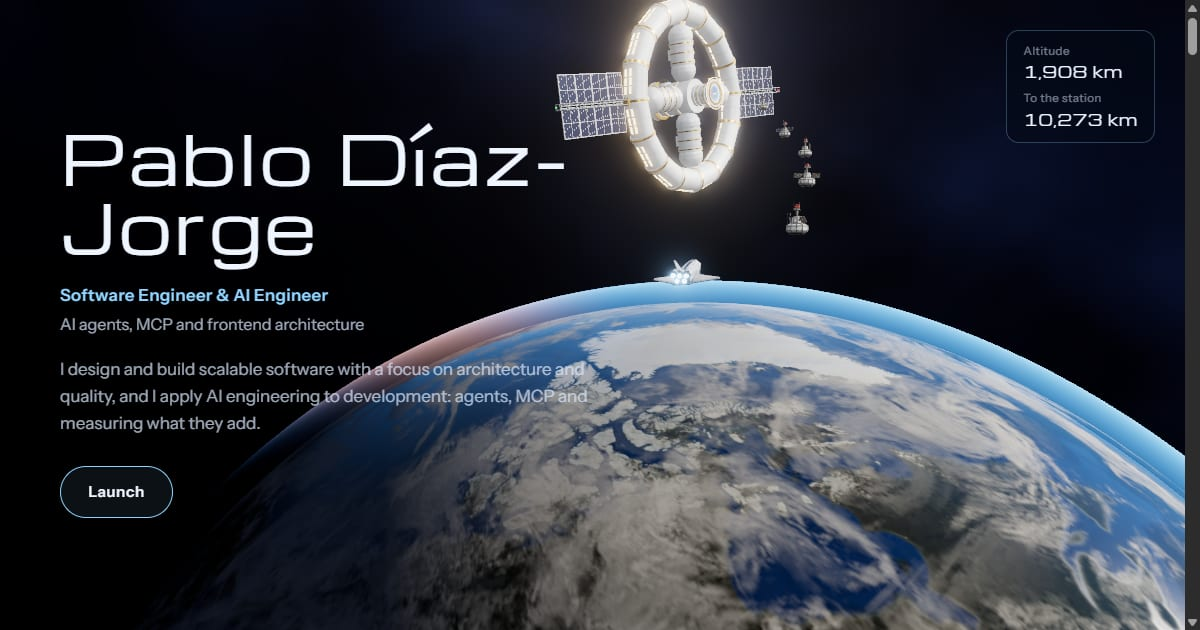
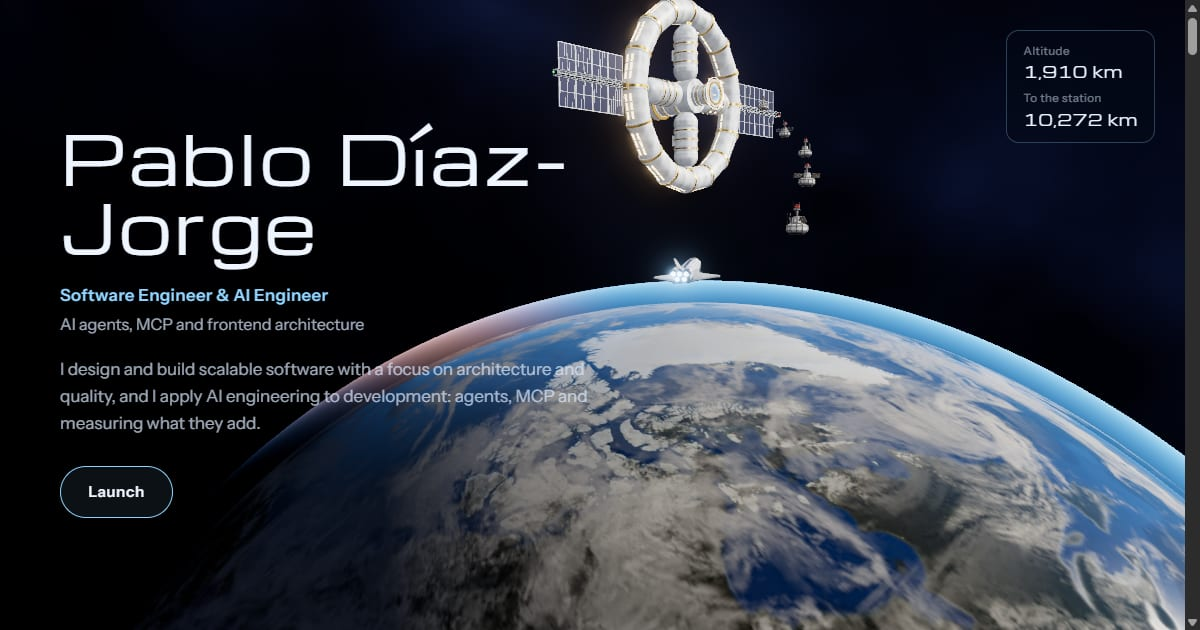
feat(helios): the station's hull wears painted metal panels from Poly Haven
- the hull samples the colour, normal and roughness maps of Blue Metal Plate (CC0) triplanar in its own frame, in plates of 2 m, with the colour dropped to its luminance and tinted white so only the seams and the wear of the paint remain; the plates drawn in the shader go

- chosen among five CC0 sets compared on the same stops; the maps are documented in the textures README

- hub and link images regenerated

diff --git a/src/app/landings/helios/helios.scene.ts b/src/app/landings/helios/helios.scene.ts
@@ -1,23 +1,21 @@
 import * as THREE from 'three/webgpu';
 import {
   abs,
-  atan,
   color,
   dot,
   float,
-  fwidth,
   hash,
   max,
-  min,
   mix,
+  mrt,
   mx_fractal_noise_float,
   normalize,
+  normalLocal,
   normalView,
-  oneMinus,
+  output,
   pass,
   pmremTexture,
   positionLocal,
-  positionView,
   positionViewDirection,
   positionWorld,
   positionWorldDirection,
@@ -25,12 +23,21 @@ import {
   step,
   texture,
   time,
+  transformNormalToView,
   uniform,
   uv,
   vec2,
   vec3,
 } from 'three/tsl';
 import { bloom } from 'three/addons/tsl/display/BloomNode.js';
+
+
+/** Marks a material as one the bloom may pick up: lights, glows, the planet and its air. Everything
+ *  else (the hull above all) stays crisp however brightly the sun hits it. */
+function blooms<T extends THREE.NodeMaterial>(material: T): T {
+  material.mrtNode = mrt({ bloomIntensity: float(1) });
+  return material;
+}
 import { RoomEnvironment } from 'three/addons/environments/RoomEnvironment.js';
 import { dequantizeMeshes } from '../../core/assets/dequantize';
 import { loadGltf } from '../../core/assets/gltf';
@@ -167,7 +174,7 @@ export class HeliosScene implements WorldScene {
     lib.set('solar', solar);
 
     const glow = (name: string, hex: string, strength: number) => {
-      const m = new THREE.MeshBasicNodeMaterial();
+      const m = blooms(new THREE.MeshBasicNodeMaterial());
       m.colorNode = color(hex).mul(strength);
       lib.set(name, m);
     };
@@ -208,43 +215,45 @@ export class HeliosScene implements WorldScene {
     lib.forEach((m) => this.bag.add(m));
   }
 
-  /** The station's hull: painted plates drawn from the model's own frame (the hub axis is local z, the
-   *  ring lies in the x-y plane). The relief between the gold bands is modelled, so the shader only adds
-   *  a faint seam down the middle of each drum of the ring and a 2.5 m grid of plates elsewhere, a tone
-   *  of its own per plate, grime along the seams and a worn roughness; the seams fade with distance so
-   *  the hull never reads as ruled paper from afar. */
+  /** The station's hull: the painted steel panels of blue_metal_plate (Poly Haven, CC0) with their seams,
+   *  dropped to a white paint, sampled triplanar in the model's own frame so they turn with the wheel,
+   *  in plates of 2 m; the map's own brightness is normalised by its measured mean, its normals carry
+   *  the seams and its roughness map spans a satin range. */
   private hullMaterial(): THREE.MeshStandardNodeMaterial {
-    const m = new THREE.MeshStandardNodeMaterial({ metalness: 0.12 });
-    const p = positionLocal;
-    const r = p.xy.length();
-    const onRing = smoothstep(9.2, 9.8, r);
-    // the ring: the drums are joined every 22.5 degrees, so one seam halfway along each
-    const deg = atan(p.y, p.x).mul(180 / Math.PI).add(360);
-    const ringSeam = abs(deg.mod(22.5).sub(11.25)).mul(Math.PI / 180).mul(r);
-    const ringCell = deg.div(22.5).floor().add(step(0, p.z).mul(31));
-    // everything else: a grid of plates in the model's frame
-    const g = p.div(2.5);
-    const gf = g.fract().sub(0.5).abs().mul(-1).add(0.5).mul(2.5);
-    const boxSeam = min(min(gf.x, gf.y), gf.z);
-    const boxCell = g.floor();
-    const seamDist = mix(boxSeam, ringSeam, onRing);
-    const cellId = mix(boxCell.x.add(boxCell.y.mul(37)).add(boxCell.z.mul(113)), ringCell, onRing);
-    const aa = fwidth(seamDist).max(0.01);
-    const near = oneMinus(smoothstep(30, 90, positionView.z.negate()));
-    const seam = oneMinus(smoothstep(float(0.02).sub(aa), float(0.02).add(aa), seamDist)).mul(near);
-    const grime = smoothstep(0.0, 0.3, seamDist).mul(0.1).add(0.9);
-    const tone = mix(0.94, 1.03, hash(cellId.add(0.5)));
-    const wear = mx_fractal_noise_float(p.mul(0.9)).mul(0.5).add(0.5);
-    const paint = color('#cbd0d6').mul(tone).mul(grime).mul(wear.mul(0.08).add(0.96));
-    m.colorNode = mix(paint, paint.mul(0.72), seam);
-    m.roughnessNode = wear.mul(0.22).add(0.4).add(seam.mul(0.2));
+    const loader = new THREE.TextureLoader();
+    const load = (kind: string, srgb: boolean) => {
+      const t = this.bag.add(loader.load(`textures/helios/hull-${kind}.webp`));
+      t.wrapS = t.wrapT = THREE.RepeatWrapping;
+      t.anisotropy = 8;
+      if (srgb) t.colorSpace = THREE.SRGBColorSpace;
+      return t;
+    };
+    const diffuse = load('diffuse', true);
+    const normalMap = load('normal', false);
+    const rough = load('rough', false);
+    const q = positionLocal.mul(1 / 2.0);
+    const n = normalLocal.abs();
+    const w = n.div(n.x.add(n.y).add(n.z).add(0.0001));
+    const sample = (map: THREE.Texture) => texture(map, q.zy).rgb.mul(w.x).add(texture(map, q.xz).rgb.mul(w.y)).add(texture(map, q.xy).rgb.mul(w.z));
+    const tx = texture(normalMap, q.zy).rgb.mul(2).sub(1);
+    const ty = texture(normalMap, q.xz).rgb.mul(2).sub(1);
+    const tz = texture(normalMap, q.xy).rgb.mul(2).sub(1);
+    const bump = vec3(0, tx.y, tx.x).mul(w.x).add(vec3(ty.x, 0, ty.y).mul(w.y)).add(vec3(tz.x, tz.y, 0).mul(w.z)).mul(1.2);
+    const m = new THREE.MeshStandardNodeMaterial({ metalness: 0.1 });
+    const lum = dot(sample(diffuse), vec3(0.3, 0.59, 0.11));
+    const meanLinear = Math.pow((60 / 255 + 0.055) / 1.055, 2.4); // the map's mean, measured on the 1K colour map
+    const shade = lum.div(meanLinear).sub(1).mul(0.9).add(1).clamp(0, 1.15);
+    const tint = new THREE.Color('#cfd4da');
+    m.colorNode = vec3(shade).mul(vec3(tint.r, tint.g, tint.b));
+    m.roughnessNode = mix(0.3, 0.8, sample(rough).r);
+    m.normalNode = transformNormalToView(normalLocal.add(bump).normalize());
     return m;
   }
 
   /** The plasma field across the docking port: translucent, rippling and brighter at its rim, so the
    *  lit corridor shows through it. */
   private fieldMaterial(): THREE.MeshBasicNodeMaterial {
-    const m = new THREE.MeshBasicNodeMaterial({ transparent: true, depthWrite: false, side: THREE.DoubleSide });
+    const m = blooms(new THREE.MeshBasicNodeMaterial({ transparent: true, depthWrite: false, side: THREE.DoubleSide }));
     const p = positionLocal;
     const rr = p.xy.length().div(1.46);
     const ripple = mx_fractal_noise_float(vec3(p.x.mul(1.4), p.y.mul(1.4), time.mul(0.45))).mul(0.5).add(0.5);
@@ -260,7 +269,7 @@ export class HeliosScene implements WorldScene {
   private addDockLights(station: THREE.Object3D): void {
     const dockLocal = station.getObjectByName('dock')?.position ?? v(0, 0, 7.1);
     const mouth = dockLocal.clone().add(v(0, 0, -1.7));
-    const ring = new THREE.MeshBasicNodeMaterial({ transparent: true, depthWrite: false, blending: THREE.AdditiveBlending });
+    const ring = blooms(new THREE.MeshBasicNodeMaterial({ transparent: true, depthWrite: false, blending: THREE.AdditiveBlending }));
     ring.colorNode = color('#ffcf8a').mul(time.mul(2.2).sin().mul(0.12).add(1).mul(2.2));
     this.bag.add(ring);
     const torus = new THREE.Mesh(this.bag.add(new THREE.TorusGeometry(2.35, 0.07, 10, 72)), ring);
@@ -279,9 +288,9 @@ export class HeliosScene implements WorldScene {
   private addEngineGlow(shuttle: THREE.Object3D): void {
     const disc = this.bag.add(new THREE.CircleGeometry(0.1, 24));
     const halo = this.bag.add(new THREE.CircleGeometry(0.24, 24));
-    const core = new THREE.MeshBasicNodeMaterial({ transparent: true, depthWrite: false, blending: THREE.AdditiveBlending });
+    const core = blooms(new THREE.MeshBasicNodeMaterial({ transparent: true, depthWrite: false, blending: THREE.AdditiveBlending }));
     core.colorNode = color('#bfe6ff').mul(time.mul(9).sin().mul(0.08).add(1).mul(3.2));
-    const soft = new THREE.MeshBasicNodeMaterial({ transparent: true, depthWrite: false, blending: THREE.AdditiveBlending });
+    const soft = blooms(new THREE.MeshBasicNodeMaterial({ transparent: true, depthWrite: false, blending: THREE.AdditiveBlending }));
     soft.colorNode = color('#5fb6ff').mul(float(1).sub(uv().sub(0.5).length().mul(2)).clamp(0, 1).pow(2).mul(1.4));
     this.bag.add(core);
     this.bag.add(soft);
@@ -341,7 +350,7 @@ export class HeliosScene implements WorldScene {
     const rim = float(1).sub(abs(dot(normalView, positionViewDirection))).pow(3);
     const haze = color('#6fb6ff').mul(rim.mul(smoothstep(-0.25, 0.4, lit)).mul(0.7));
 
-    const material = new THREE.MeshStandardNodeMaterial({ roughness: 0.8 });
+    const material = blooms(new THREE.MeshStandardNodeMaterial({ roughness: 0.8 }));
     // the planet takes almost no light from the studio environment, so its night side stays night
     // (a zero in place of the map switches the whole lighting off, so the map is sampled and scaled)
     if (this.envTexture) material.envNode = pmremTexture(this.envTexture).mul(0.03);
@@ -359,7 +368,7 @@ export class HeliosScene implements WorldScene {
     this.scene.add(this.planet);
 
     const cloudGeometry = this.bag.add(new THREE.SphereGeometry(PLANET_RADIUS + 0.45, 128, 96));
-    const clouds = new THREE.MeshStandardNodeMaterial({ transparent: true, depthWrite: false, roughness: 1 });
+    const clouds = blooms(new THREE.MeshStandardNodeMaterial({ transparent: true, depthWrite: false, roughness: 1 }));
     if (this.envTexture) clouds.envNode = pmremTexture(this.envTexture).mul(0.03);
     clouds.colorNode = color('#ffffff');
     clouds.opacityNode = texture(cloudMap).r.mul(0.95);
@@ -370,7 +379,7 @@ export class HeliosScene implements WorldScene {
     this.scene.add(this.clouds);
 
     const shellGeometry = this.bag.add(new THREE.SphereGeometry(PLANET_RADIUS + 2.6, 128, 96));
-    const shell = new THREE.MeshBasicNodeMaterial({ transparent: true, depthWrite: false, side: THREE.BackSide, blending: THREE.AdditiveBlending });
+    const shell = blooms(new THREE.MeshBasicNodeMaterial({ transparent: true, depthWrite: false, side: THREE.BackSide, blending: THREE.AdditiveBlending }));
     const shellOut = normalize(positionWorld.sub(vec3(PLANET_CENTRE.x, PLANET_CENTRE.y, PLANET_CENTRE.z)));
     const shellLit = smoothstep(-0.35, 0.5, dot(shellOut, this.uSun));
     const edge = float(1).sub(abs(dot(normalView, positionViewDirection))).pow(5.5);
@@ -405,7 +414,7 @@ export class HeliosScene implements WorldScene {
       const buoy = template ? template.clone(true) : new THREE.Group();
       const strobe = buoy.getObjectByName('buoy_strobe') as THREE.Mesh | undefined;
       if (strobe) {
-        const material = new THREE.MeshBasicNodeMaterial();
+        const material = blooms(new THREE.MeshBasicNodeMaterial());
         // a short double flash every 1.4 s, each buoy out of step with the next
         const phase = time.mul(0.72).add(i * 0.37).fract();
         const flash = smoothstep(0.0, 0.03, phase).mul(smoothstep(0.1, 0.05, phase)).add(smoothstep(0.16, 0.19, phase).mul(smoothstep(0.26, 0.21, phase)));
@@ -456,9 +465,13 @@ export class HeliosScene implements WorldScene {
   }
 
   private setupPipeline(): void {
+    // the scene pass also writes a mask of what may bloom (see `blooms`), so the sunlit hull of the
+    // station never burns white while the lights, the glows and the planet keep their halo
     const scenePass = pass(this.scene, this.camera);
+    scenePass.setMRT(mrt({ output, bloomIntensity: float(0) }));
     const sceneColor = scenePass.getTextureNode();
-    const glow = bloom(sceneColor, this.ctx.quality === 'low' ? 0.4 : 0.55, 0.35, 0.92);
+    const mask = scenePass.getTextureNode('bloomIntensity').clamp(0, 1);
+    const glow = bloom(sceneColor.mul(mask), this.ctx.quality === 'low' ? 0.4 : 0.55, 0.35, 0.92);
     this.pipeline = new THREE.RenderPipeline(this.ctx.renderer, sceneColor.add(glow));
     this.bag.defer(() => {
       glow.dispose();

diff --git a/public/textures/helios/README.md b/public/textures/helios/README.md
@@ -8,3 +8,14 @@ All four maps come from NASA imagery, which is in the public domain (https://www
 - `earth-ocean.webp` (2048 x 1024): an ocean mask derived here from the day map (water where blue beats red), which the scene uses to polish the seas.
 
 The scene lights the day map with the sun, blends the night lights in past the terminator, lays the clouds on a second sphere whose shadows fall on the ground, and wraps an atmosphere shell round it all.
+
+## The station's hull
+
+`hull-diffuse.webp`, `hull-normal.webp` and `hull-rough.webp` (1024 x 1024) are the colour, normal (GL) and
+roughness maps of Blue Metal Plate by Rob Tuytel on Poly Haven (https://polyhaven.com/a/blue_metal_plate),
+CC0 (https://polyhaven.com/license), converted from the 1K JPEGs to WebP. The scene drops the colour map to
+its luminance and tints it white, so only the panel seams and the wear of the paint remain, and samples the
+three maps triplanar in the station's own frame in plates of 2 m, so the panels turn with the wheel. It was
+chosen among five CC0 candidates (a weathered white painted steel, two sci-fi octagon platings and a scratched
+white plastic from ambientCG, besides this one) on comparison sheets kept in
+`_docs-internal/process/helios/2026-10-16-texturas-casco-*.jpg`.
